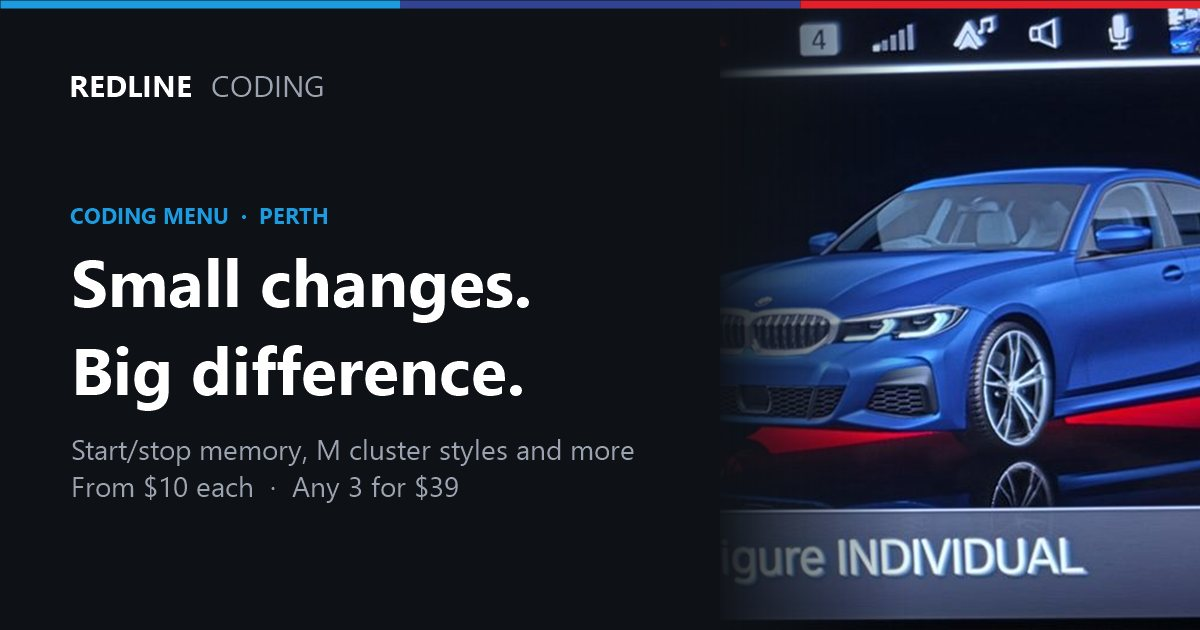
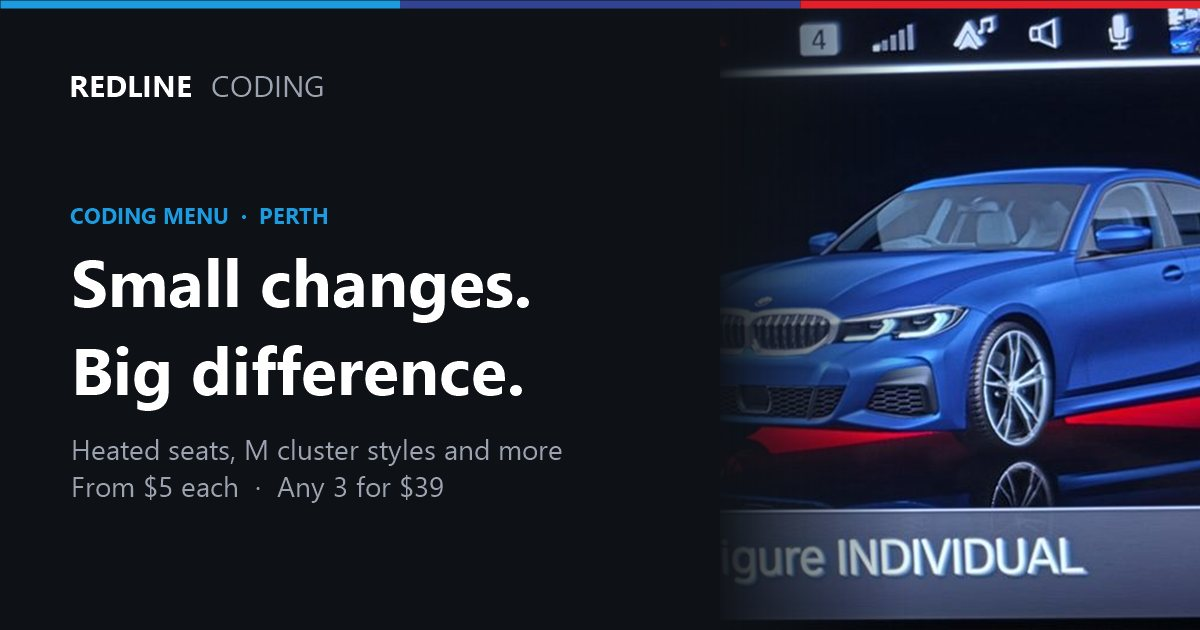
Add Quick extras group: six $5 add-ons outside the deals; menu now from $5

Changed region(s): [[0.0617, 0.6937, 0.5242, 0.8143]]

diff --git a/coding-menu.html b/coding-menu.html
@@ -4,9 +4,9 @@
 <meta charset="UTF-8">
 <meta name="viewport" content="width=device-width, initial-scale=1">
 <title>BMW Coding Menu Perth | Redline Coding</title>
-<meta name="description" content="Popular BMW coding features in Perth from $10 each: auto start/stop memory or always off, comfort blink, Sport Plus and Comfort Plus modes, M and Alpina cluster styles, start-up badges, brake force display, Assisted Driving View and Speed Limit Assist. Any 3 for $39.">
+<meta name="description" content="Popular BMW coding features in Perth from $5 each: auto start/stop memory or always off, comfort blink, Sport Plus and Comfort Plus modes, M and Alpina cluster styles, start-up badges, brake force display, Assisted Driving View and Speed Limit Assist. Any 3 for $39.">
 <meta property="og:title" content="BMW Coding Menu Perth | Redline Coding">
-<meta property="og:description" content="Start/stop memory, comfort blink, drive modes, M cluster styles, start-up badges and more. From $10 each, any 3 for $39.">
+<meta property="og:description" content="Start/stop memory, comfort blink, drive modes, M cluster styles, start-up badges and more. From $5 each, any 3 for $39.">
 <meta property="og:type" content="website">
 <meta property="og:url" content="https://dante1243.github.io/redline-coding/coding-menu.html">
 <link rel="canonical" href="https://dante1243.github.io/redline-coding/coding-menu.html">
@@ -14,7 +14,7 @@
 <meta property="og:image" content="https://dante1243.github.io/redline-coding/media/og-coding-menu.jpg">
 <meta property="og:image:width" content="1200">
 <meta property="og:image:height" content="630">
-<meta property="og:image:alt" content="Redline Coding: BMW coding menu, from $10 each.">
+<meta property="og:image:alt" content="Redline Coding: BMW coding menu, from $5 each.">
 <meta name="twitter:card" content="summary_large_image">
 <meta name="theme-color" content="#0e1116">
 <link rel="preconnect" href="https://fonts.googleapis.com">
@@ -35,7 +35,7 @@
   <div class="wrap">
     <p class="eyebrow">Coding menu · Perth</p>
     <h1>Small changes. Big difference.</h1>
-    <p class="lede">Popular BMW features, <strong>from $10 each</strong> and done in minutes. Pick what you want, see your price straight away, and we'll do them all in one visit. Add them to a remote start booking and it's the same trip.</p>
+    <p class="lede">Popular BMW features, <strong>from $5 each</strong> and done in minutes. Pick what you want, see your price straight away, and we'll do them all in one visit. Add them to a remote start booking and it's the same trip.</p>
     <div class="cta-row">
       <a class="btn btn-primary" href="#menu-section">See the menu</a>
       <a class="btn btn-ghost" href="enquire.html" data-quote>Get a quote</a>
@@ -85,7 +85,7 @@
       </details>
       <details>
         <summary>How do the deals work?</summary>
-        <p>The <span data-deal="count">9</span> quick features come in packs: <b data-deal="packs">any 3 for $39, any 5 for $65, or all 9 for $99</b>. A pack covers your most expensive picks, and anything extra is at its normal price. Automatic heated seats, Assisted Driving View, Speed Limit Assist and Emergency Stop Assistant are bigger jobs, so they're always full price and not part of these deals. Heated seats does drop from $79 to $39 when you book it with remote start. The page works out the best price for you automatically.</p>
+        <p>The <span data-deal="count">9</span> quick features come in packs: <b data-deal="packs">any 3 for $39, any 5 for $65, or all 9 for $99</b>. A pack covers your most expensive picks, and anything extra is at its normal price. Automatic heated seats, Assisted Driving View, Speed Limit Assist and Emergency Stop Assistant are bigger jobs, so they're always full price and not part of these deals. Heated seats does drop from $79 to $39 when you book it with remote start. Quick extras are $5 each and aren't part of the deals either. The page works out the best price for you automatically.</p>
       </details>
       <details>
         <summary>Can I add these to a remote start booking?</summary>

diff --git a/services.js b/services.js
@@ -27,9 +27,9 @@ const SERVICES = {
   },
   "coding-menu": {
     name: "Coding Menu",
-    short: "Automatic heated seats, start/stop memory or always off, extra drive modes, M cluster styles and more. Pick what you want and we do it all in one visit.",
+    short: "Automatic heated seats, start/stop memory or always off, extra drive modes, M cluster styles and more. Pick what you want from $5 and we do it all in one visit.",
     page: "coding-menu.html",
-    price: 10,
+    price: 5,
     time: "~5 min each",
     icon: "dial",
     img: "card-coding-menu",
@@ -109,6 +109,22 @@ const FEATURES = [
   { id: "idrive-startup", group: "Style", name: "iDrive start-up animation", price: 15, icon: "badge", needs: [], img: ["feat-idrive-startup"],
     desc: "Change the animation on the iDrive screen when you start the car: BMW M, Alpina, BMW i, or even Rolls-Royce.",
     note: "Which animations are available depends on your car's iDrive software version." },
+  // Quick extras: $5 each, always full price (outside the deals). extra: shown as one line on the home page card.
+  { id: "speedo-refresh", group: "Quick extras", name: "Faster digital speedo", price: 5, noDeal: true, extra: true, icon: "gauge", needs: [],
+    desc: "The digital speed readout updates 5 or 10 times a second instead of twice, so it keeps up with the car." },
+  { id: "xview", group: "Quick extras", name: "X View display", price: 5, noDeal: true, extra: true, icon: "screen", needs: [],
+    desc: "Unlocks the X View display normally only on BMW X models, showing your car's tilt and incline angles.",
+    note: "For models that don't have it from the factory." },
+  { id: "lock-horn", group: "Quick extras", name: "No horn when locking with the engine running", price: 5, noDeal: true, extra: true, icon: "lock", needs: [],
+    desc: "Stops the horn sounding when you lock the car with the engine running, for example while it warms up." },
+  { id: "window-interrupt", group: "Quick extras", name: "Windows keep moving when a door opens", price: 5, noDeal: true, extra: true, icon: "window", needs: [],
+    desc: "Automatic window up or down no longer stops halfway when you open a door." },
+  { id: "parking-longer", group: "Quick extras", name: "Parking sensors & cameras stay on longer", price: 5, noDeal: true, extra: true, icon: "camera", needs: [],
+    desc: "Parking sensors, Top View and the reversing camera stay on for longer and up to 50 km/h, so they don't switch off as soon as you pull away.",
+    note: "Made for cars with Parking Assistant Professional (360° cameras). It may work on others, and we'll check yours." },
+  { id: "seat-memory", group: "Quick extras", name: "Seat heating memory", price: 5, noDeal: true, extra: true, icon: "seat", needs: [],
+    desc: "Choose how long your seat heating (and cooling, if fitted) setting is remembered: 15 minutes, 24 hours, unlimited, or not at all.",
+    note: "Usually the driver's seat." },
 ];
 
 // "Needs full digital cluster + Driving Assistant Professional"
@@ -136,5 +152,7 @@ const ICONS = {
   power: '<svg viewBox="0 0 24 24"><path d="M12 3v8"/><path d="M7 6.5a7 7 0 1 0 10 0"/></svg>',
   blink: '<svg viewBox="0 0 24 24"><path d="M4 12h11"/><path d="m11 7 5 5-5 5"/><path d="M19 7v10"/></svg>',
   alert: '<svg viewBox="0 0 24 24"><path d="M12 3.5 21.5 20h-19z"/><path d="M12 10v4.5M12 17.5h.01"/></svg>',
+  window: '<svg viewBox="0 0 24 24"><path d="M5 20V9l7-5h7v16z"/><path d="M5 12h14M12 4v8"/></svg>',
+  camera: '<svg viewBox="0 0 24 24"><rect x="3" y="7" width="13" height="11" rx="2"/><path d="m16 11 5-3v9l-5-3"/></svg>',
   chat: '<svg viewBox="0 0 24 24"><path d="M4 5h16v11H9l-5 4z"/><path d="M8 9.5h8M8 12.5h5"/></svg>',
 };

diff --git a/app.js b/app.js
@@ -215,10 +215,13 @@ function addOnText(item) {
 
 // Wide service card: photo on one side, details on the other. The Coding Menu card lists every feature.
 function svcCard(s) {
+  const extras = FEATURES.filter((f) => f.extra);
   const feats = s.menu ? `
     <ul class="svc-feats">
-      ${FEATURES.map((f) => `
+      ${FEATURES.filter((f) => !f.extra).map((f) => `
         <li><span>${esc(f.name)}${f.addOn ? `<small>${esc(addOnText(f))}</small>` : ""}</span><b>${money(f.price)}</b></li>`).join("")}
+      ${extras.length ? `
+        <li><span>+ ${extras.length} quick extras<small>Faster speedo, X View, parking cameras and more</small></span><b>${money(Math.min(...extras.map((f) => f.price)))}</b></li>` : ""}
     </ul>` : "";
   return `
     <a class="svc-card" href="${s.page}">
